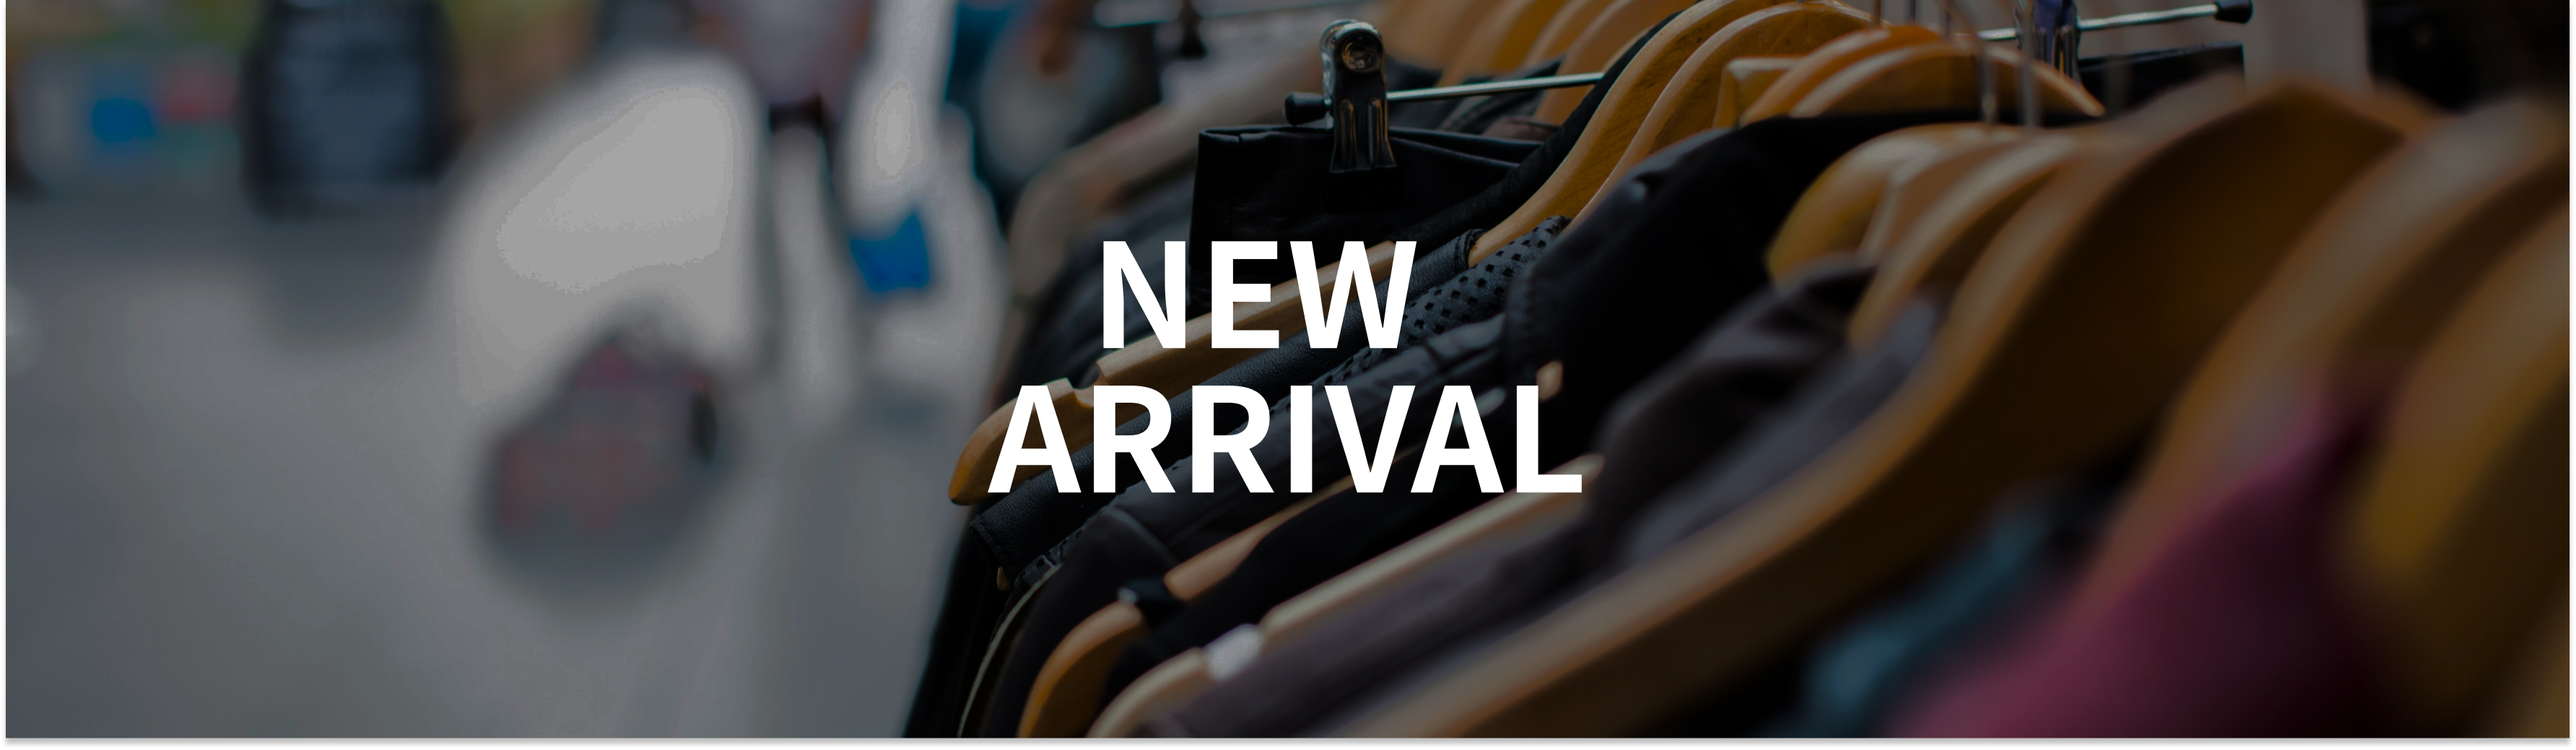
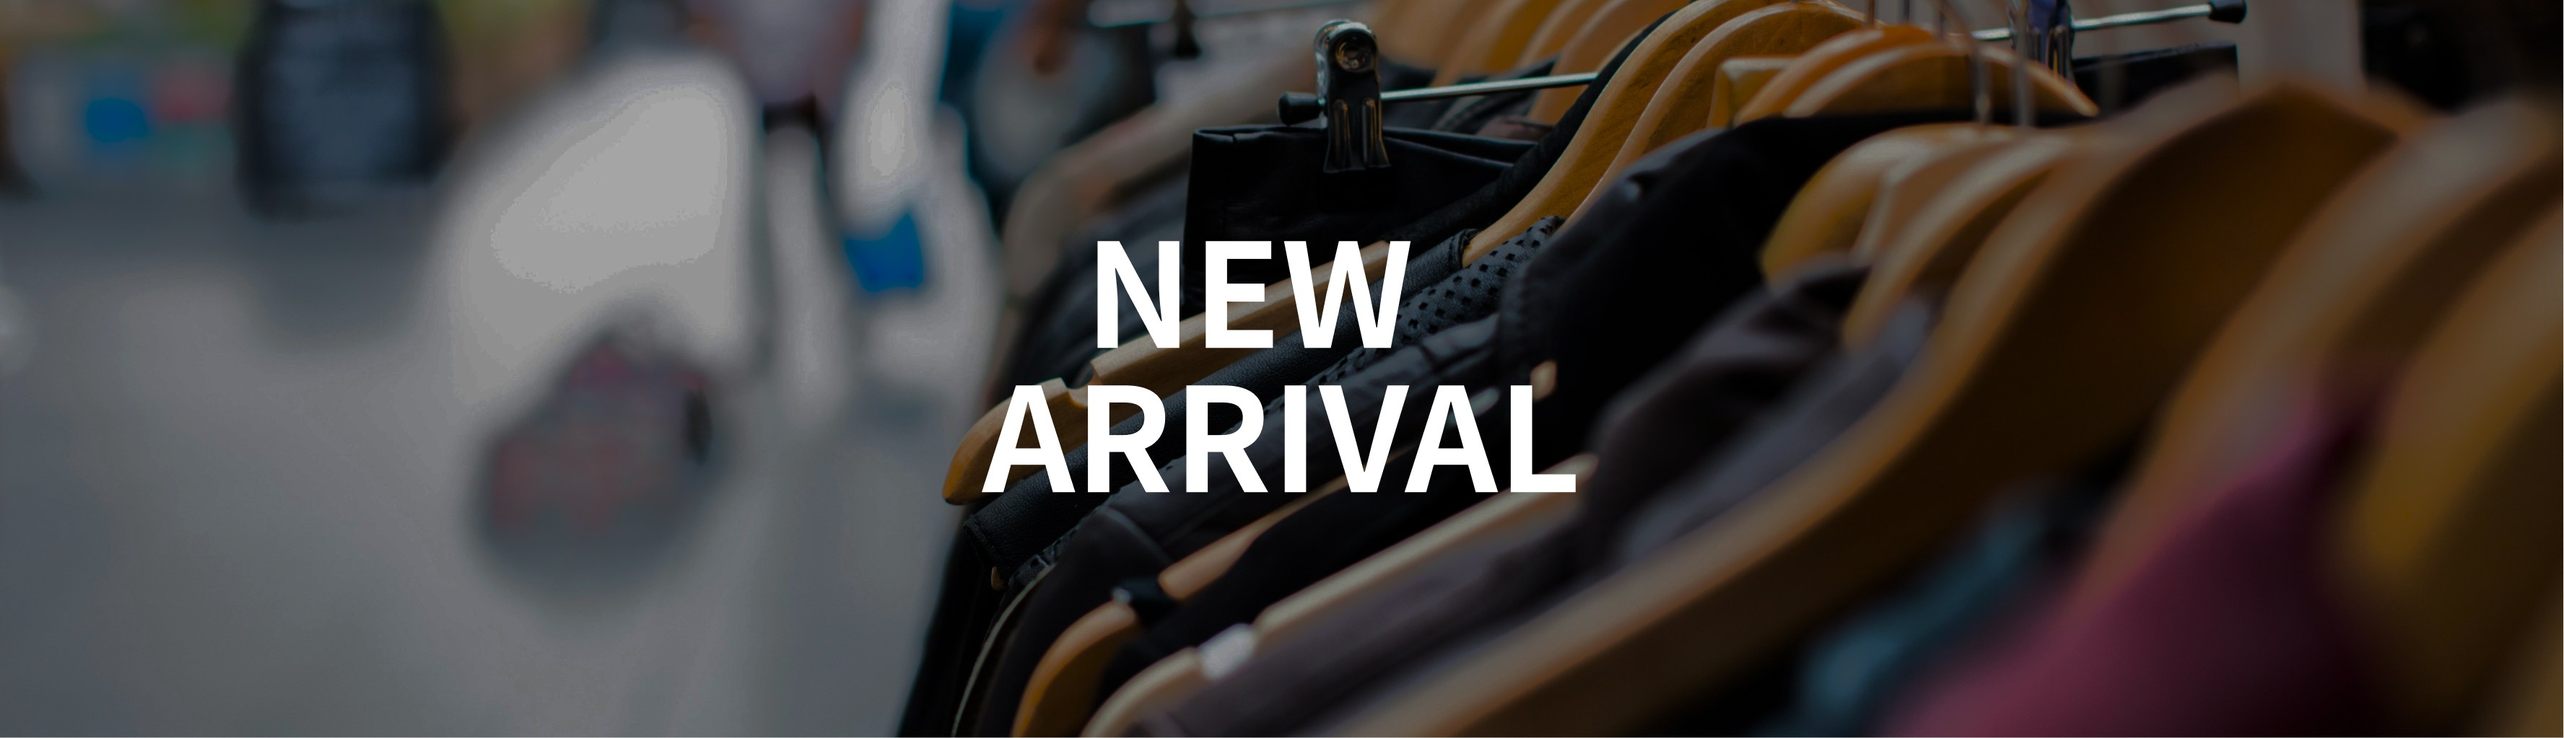
穿搭靈感_rwd完成

diff --git a/css/style-inspiration.css b/css/style-inspiration.css
@@ -53,12 +53,15 @@ a{
 
 }
 
-.coverflow > a > img{
+.coverflow > a > img:first-child{
     width: 100%;
     height: 100%;
     object-fit: cover;
 }
 
+.coverflow > a > img:last-child{
+   display: none;
+}
 
 /* ==============(中間內容)================ */
 
@@ -290,7 +293,8 @@ a{
     display: flex;
     align-items: start;
     justify-content: end;
-    width: 1018px;
+    max-width: 1018px;
+    width: 100%;
     height: auto;
 
 
@@ -400,7 +404,14 @@ a{
     grid-gap: 4px;
     width: 100%;
     margin-top: 20px;
+    z-index: -1;
+
     
+}
+
+.product-item{
+    position: relative;
+
 }
 
 .product-item > a{
@@ -422,5 +433,256 @@ a{
     width: 100%;
     height: 100%;
     object-fit: cover;
+    
+}
+
+.instagram-tag {
+    /* border: 1px solid blue; */
+    display: none;
+    width: 90%;
+    max-width: 254px;
+    align-items: center;
+    justify-content: space-between;
+    margin-bottom: 10px;
+    position: absolute;
+    top: 8px;
+    left: 8px;
+    z-index: 10;
+
+}
+
+
+.instagram-tag > a > i{
+    display: block;
+    font-size: 36px;
+    color: #a7a7a7;
+}
+
+
+
+
+/* ==========RWD斷點============== */
+
+@media screen and (max-width: 1160px) {
+    /* 第一個斷點提早設定，商品圖片往內縮會開始變形 */
+    /* 先看wrapper最大寬度是多少，先設定一個斷點>>>width :auto */
+    
+
+    .wrapper{
+        width: auto;
+      }
+  
+      .itemscope{
+          padding: 20px 0;
+          /* border: 1px solid red; */
+          margin: 0 4% 0;
+      }
+
+    .content-1{
+        width: 95%;
+        max-width: 1140px;
+        padding: 12px 0;
+        margin: 0 auto;
+        /* border: 1px solid red; */
+        
+    }
+
+}
+
+@media screen and (max-width: 1148px){
+    /* 斷點提早設定，左側選單會碰到輪播圖 */
+    .content-1{
+        display: flex;
+        flex-direction: column;
+        align-items: center;
+
+    }
+
+    /* 麵包屑字體放大 */
+    .itemscope li {
+        /* border: 1px solid red; */
+    
+        font-size: 1.6rem;
+        color: #3e3e3e;
+    }
+
+    
+    .product-item > a{
+        /* border: 1px solid blue;  */
+        display: block;
+        width: 100%;
+        height: 100%;
+        max-width: 200px;
+        max-height: 200px;
+        display: flex;
+        align-items: center;
+        justify-content: center;
+        background-color: #f2f2f2;
+        border-radius: 20px;
+        position: relative;
+        
+        
+    }
+    .product-name > a > h3{
+        display: block;
+        font-weight: 800;
+        font-size: 1.6rem;
+        color: #333;   
+    }
+
+    .content-1{
+        display: flex;
+        flex-direction: column;
+        align-items: center;
+        justify-content: space-between;
+        /* border: 1px solid red;  */
+    
+    }
+
+    
+
+    .text{
+        /* border: 1px solid red; */
+        width: 98%;
+        color: #fff;
+        background: #dba57f;
+        border-radius: 23px;
+        margin-bottom: 16px;
+        align-items: center;
+        padding: 6.5px 0 6.5px 12px;
+        position: relative
+        
+
+    }
+
+    .text::after{
+        position: absolute;
+        top: 50%;
+        right: 4%;
+        transform: translateY(-50%);
+        /* transform: translateY(-50%) rotate(180deg); */
+        content: "";
+        width: 22px;
+        height: 20px;
+        background: url(../img/chevron-down-solid.svg) center center / contain no-repeat;
+        transition: transform .3s;
+
+    }
+
+    .text-item > h3{
+        color: #fff;
+    }
+
+    .text-item > a{
+        display: none;
+    }
+
+    .text-item h3:after{
+        display: none;
+    
+    }
+
+    .vision-product{
+        /* border: 1px solid red; */
+        width: 100%;
+        /* max-width: 960px; */
+    }
+    #sliderBoard {
+        
+        width: 100%;
+        /* max-width: 960px; */
+        height: auto;
+    }
+
+    #sliderBoard img {
+        width: 100%;
+        height: auto;
+        object-fit: cover;
+    }
+
+    .slogan{
+        position: absolute;
+        top: 668px;
+        left: -68px;
+        display: flex;
+        flex-direction: column-reverse;
+        display: none;
+    
+    }
+    
+    .product-item {
+        aspect-ratio: 1 / 1; /* 設置寬高比為1:1，保持正方形 */
+        /* border: 1px solid red; */
+
+        width: 100%; /* 確保區塊寬度自適應父容器 */
+    }
+    
+    .product-item img {
+        width: 85%;
+        height: 85%;
+        object-fit: cover; /* 確保圖片填充區塊且保持比例 */
+    }
+    
+    .product {
+        display: grid;
+        grid-template-columns: repeat(auto-fit, minmax(150px, 1fr)); /* 使產品區塊自適應寬度 */
+        gap: 20px; /* 設置區塊間距 */
+    }
+    
+    .product-item > a{
+        /* border: 1px solid blue;  */
+        display: block;
+        width: 100%;
+        height: 100%;
+        max-width: 320px;
+        max-height: 320px;
+        display: flex;
+        align-items: center;
+        justify-content: center;
+        background-color: #f2f2f2;
+        border-radius: 20px;
+        position: relative;
+        
+    }
+
+    .instagram-tag {
+        /* border: 1px solid blue; */
+        display: block;
+        width: 90%;
+        max-width: 254px;
+        align-items: center;
+        justify-content: space-between;
+        margin-bottom: 10px;
+        position: absolute;
+        top: 8px;
+        left: 8px;
+        z-index: 10;
+    
+    }
+    
+    
+    .instagram-tag > a > i{
+        display: block;
+        font-size: 36px;
+        color: #989898;
+    }
+
+
+}
+
+
+
+@media screen and (max-width: 395px){
+    .coverflow > a > img:first-child{
+        display: none;
+       
+    }
+    
+    .coverflow > a > img:last-child{
+        display: block;
+        width: 100%;
+        height: 100%;
+        object-fit: cover;
+    }
     
 }

diff --git a/style-inspiration.html b/style-inspiration.html
@@ -78,7 +78,9 @@
         <div id="cover" class="coverflow">
           <a href="inspiration-products.html">
             <img src="./img/S_inspiration_Main_img.jpg" alt="圖片1"
-          /></a>
+          />
+          <img src="./img/rwd-style-inspiration (1).jpg" alt="">
+        </a>
         </div>
       </header>
 
@@ -144,33 +146,63 @@
               <div class="product">
                 <!--處理instagram圖片grid排版-->
                 <div class="product-item">
+                  <div class="instagram-tag">
+                    <a href="#"><i class="fa-brands fa-instagram"></i></a>
+                  </div>
                   <a href="#"><img src="./img/ins-1.png" alt="" /></a>
                 </div>
                 <div class="product-item">
+                  <div class="instagram-tag">
+                    <a href="#"><i class="fa-brands fa-instagram"></i></a>
+                  </div>
                   <a href="#"><img src="./img/ins-2.png" alt="" /></a>
                 </div>
                 <div class="product-item">
+                  <div class="instagram-tag">
+                    <a href="#"><i class="fa-brands fa-instagram"></i></a>
+                  </div>
                   <a href="#"><img src="./img/ins-3.png" alt="" /></a>
                 </div>
                 <div class="product-item">
+                  <div class="instagram-tag">
+                    <a href="#"><i class="fa-brands fa-instagram"></i></a>
+                  </div>
                   <a href="#"><img src="./img/ins-4.png" alt="" /></a>
                 </div>
                 <div class="product-item">
+                  <div class="instagram-tag">
+                    <a href="#"><i class="fa-brands fa-instagram"></i></a>
+                  </div>
                   <a href="#"><img src="./img/ins-5.png" alt="" /></a>
                 </div>
                 <div class="product-item">
+                  <div class="instagram-tag">
+                    <a href="#"><i class="fa-brands fa-instagram"></i></a>
+                  </div>
                   <a href="#"><img src="./img/ins-6.png" alt="" /></a>
                 </div>
                 <div class="product-item">
+                  <div class="instagram-tag">
+                    <a href="#"><i class="fa-brands fa-instagram"></i></a>
+                  </div>
                   <a href="#"><img src="./img/ins-7.png" alt="" /></a>
                 </div>
                 <div class="product-item">
+                  <div class="instagram-tag">
+                    <a href="#"><i class="fa-brands fa-instagram"></i></a>
+                  </div>
                   <a href="#"><img src="./img/ins-8.png" alt="" /></a>
                 </div>
                 <div class="product-item">
+                  <div class="instagram-tag">
+                    <a href="#"><i class="fa-brands fa-instagram"></i></a>
+                  </div>
                   <a href="#"><img src="./img/ins-9.png" alt="" /></a>
                 </div>
                 <div class="product-item">
+                  <div class="instagram-tag">
+                    <a href="#"><i class="fa-brands fa-instagram"></i></a>
+                  </div>
                   <a href="#"><img src="./img/ins-10.png" alt="" /></a>
                 </div>
               </div>

diff --git a/new-arrivals.html b/new-arrivals.html
@@ -80,7 +80,7 @@
             >
             <img src="./img/header_img.jpg" alt="圖片1"
           />
-            <img src="./img/new_arrival_rwd_header_img.png" alt="">
+            <img src="./img/new_arrival_rwd_header_img.jpg" alt="">
           </a>
 
         </div>
